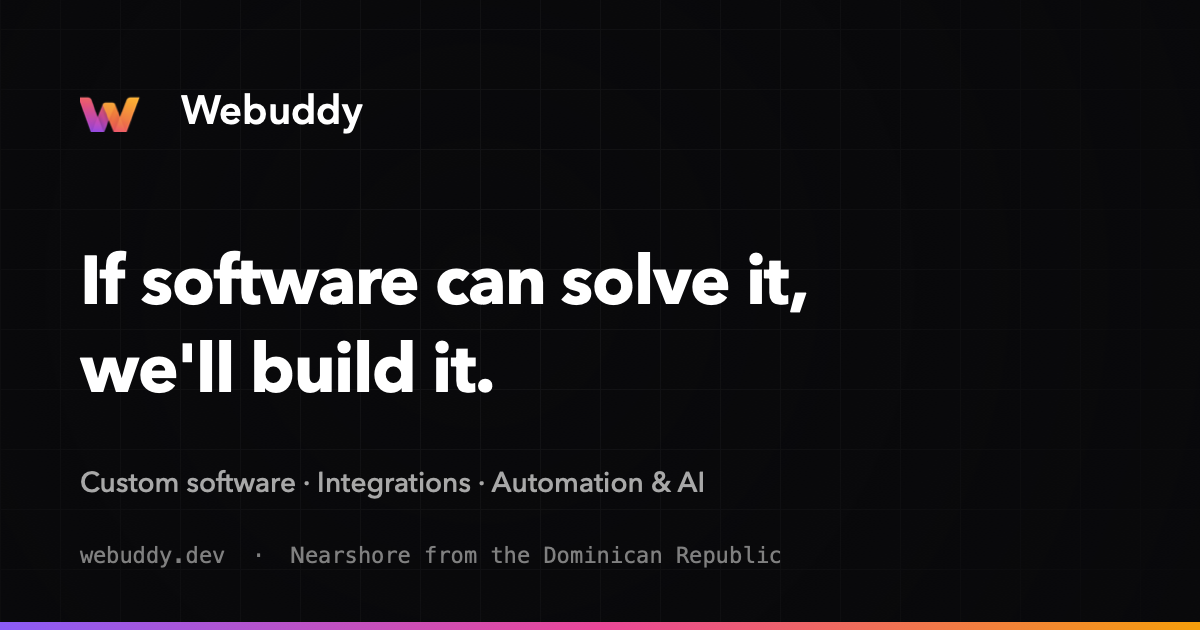
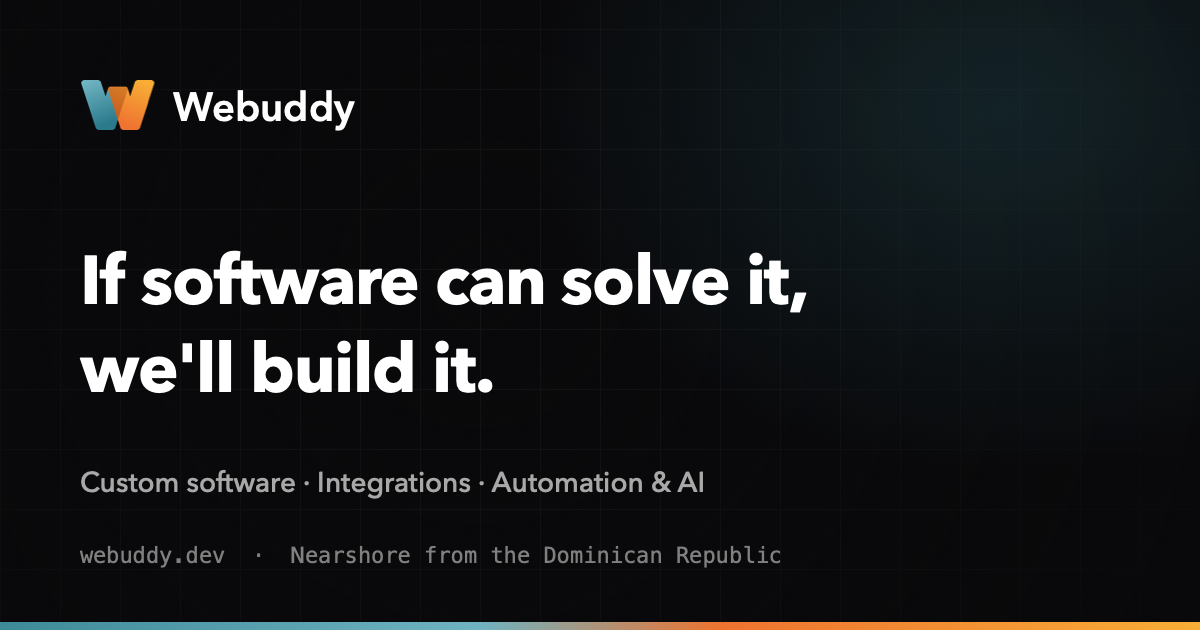
refactor: update webuddy branding

diff --git a/src/components/home/SystemDiagram.tsx b/src/components/home/SystemDiagram.tsx
@@ -42,13 +42,14 @@ export function SystemDiagram() {
     <svg viewBox="0 0 440 440" role="img" aria-label={t('home.diagram.label')} className="h-auto w-full">
       <defs>
         <linearGradient id="wb-core-stroke" x1="0" y1="0" x2="1" y2="0">
-          <stop offset="0" stopColor="#8b5cf6" />
-          <stop offset="0.5" stopColor="#ec4899" />
-          <stop offset="1" stopColor="#f59e0b" />
+          <stop offset="0" stopColor="#6FB3C1" />
+          <stop offset="0.45" stopColor="#3E8A99" />
+          <stop offset="0.55" stopColor="#EE7330" />
+          <stop offset="1" stopColor="#F8AE36" />
         </linearGradient>
         <radialGradient id="wb-core-glow">
-          <stop offset="0" stopColor="#ec4899" stopOpacity="0.22" />
-          <stop offset="1" stopColor="#ec4899" stopOpacity="0" />
+          <stop offset="0" stopColor="#3E8A99" stopOpacity="0.26" />
+          <stop offset="1" stopColor="#3E8A99" stopOpacity="0" />
         </radialGradient>
       </defs>
 
@@ -70,7 +71,8 @@ export function SystemDiagram() {
 
       <ellipse cx={220} cy={200} rx={190} ry={90} fill="url(#wb-core-glow)" />
       <rect x={CORE.x} y={CORE.y} width={CORE.w} height={CORE.h} rx={16} fill="#111114" stroke="url(#wb-core-stroke)" strokeWidth={1.5} />
-      <text x={220} y={197} textAnchor="middle" className="font-display" fontSize={24} fontWeight={600} fill="#ffffff">
+      <image href="/images/webuddy-icono-color-fondo-oscuro.svg" x={150} y={176} width={36} height={24} />
+      <text x={194} y={197} className="font-display" fontSize={24} fontWeight={600} fill="#ffffff">
         {t('home.diagram.core')}
       </text>
       <text x={220} y={224} textAnchor="middle" className="font-mono" fontSize={11} fill="#a1a1aa">
@@ -85,7 +87,7 @@ export function SystemDiagram() {
       ))}
 
       {centers.map((cx, i) => (
-        <FlowDot key={`fi-${cx}`} path={inPath(cx)} begin={i * 0.75} color="#a78bfa" />
+        <FlowDot key={`fi-${cx}`} path={inPath(cx)} begin={i * 0.75} color="#6FB3C1" />
       ))}
       {centers.map((cx, i) => (
         <FlowDot key={`fo-${cx}`} path={outPath(cx)} begin={1.5 + i * 0.75} color="#fb923c" />

diff --git a/src/components/sections/SolutionsIndex.tsx b/src/components/sections/SolutionsIndex.tsx
@@ -12,7 +12,7 @@ function FeaturedRow({ solution, label }: { solution: Solution; label: string })
         to={`/solutions/${solution.slug}`}
         className="group relative flex flex-col gap-6 overflow-hidden rounded-2xl border border-white/[0.1] bg-ink-900 p-7 transition-colors hover:border-white/20 md:flex-row md:items-center md:justify-between md:p-8"
       >
-        <span className="absolute inset-y-0 left-0 w-[2px] bg-gradient-to-b from-brand-violet via-brand-pink to-brand-orange" aria-hidden="true" />
+        <span className="absolute inset-y-0 left-0 w-[2px] bg-gradient-to-b from-brand-teal-glow via-brand-teal-light to-brand-orange" aria-hidden="true" />
         <div className="flex gap-5">
           <span className="flex h-11 w-11 shrink-0 items-center justify-center rounded-xl border border-white/10 bg-white/[0.03]">
             <solution.icon size={20} className="text-brand-accent" />

diff --git a/tailwind.config.js b/tailwind.config.js
@@ -12,10 +12,13 @@ export default {
           800: '#19191e',
           700: '#24242b',
         },
+        // Taken from the logo (public/images). On the dark UI, use the "fondo oscuro" teal.
         brand: {
-          violet: '#8b5cf6',
-          pink: '#ec4899',
-          orange: '#f59e0b',
+          teal: '#0F4C5C',
+          'teal-light': '#3E8A99',
+          'teal-glow': '#6FB3C1',
+          orange: '#EE7330',
+          amber: '#F8AE36',
           accent: '#fb923c',
         },
       },
@@ -25,7 +28,7 @@ export default {
         mono: ['"JetBrains Mono"', 'ui-monospace', 'SFMono-Regular', 'Menlo', 'monospace'],
       },
       backgroundImage: {
-        'brand-gradient': 'linear-gradient(90deg, #8b5cf6, #ec4899 50%, #f59e0b)',
+        'brand-gradient': 'linear-gradient(90deg, #3E8A99, #6FB3C1 40%, #EE7330 60%, #F8AE36)',
       },
       keyframes: {
         'fade-up': {

diff --git a/index.html b/index.html
@@ -5,8 +5,10 @@
   <meta charset="UTF-8" />
   <meta name="viewport" content="width=device-width, initial-scale=1.0" />
   <meta name="theme-color" content="#09090b" />
-  <link rel="icon" type="image/png" sizes="32x32" href="/W.png" />
-  <link rel="apple-touch-icon" href="/W.png" />
+  <link rel="icon" type="image/svg+xml" href="/images/webuddy-icono-pequeno.svg" media="(prefers-color-scheme: light)" />
+  <link rel="icon" type="image/svg+xml" href="/images/webuddy-icono-pequeno-fondo-oscuro.svg" media="(prefers-color-scheme: dark)" />
+  <link rel="icon" type="image/png" href="/images/webuddy-icono-pequeno-fondo-oscuro-32.png" />
+  <link rel="apple-touch-icon" href="/images/webuddy-apple-touch-icon.png" />
   <link rel="preconnect" href="https://fonts.googleapis.com" />
   <link rel="preconnect" href="https://fonts.gstatic.com" crossorigin />
   <link rel="stylesheet"

diff --git a/src/pages/Solutions.tsx b/src/pages/Solutions.tsx
@@ -25,7 +25,7 @@ export const Solutions = () => {
       {entry && (
         <section className="wrap">
           <Reveal className="relative overflow-hidden rounded-2xl border border-white/[0.1] bg-ink-900 p-7 md:p-10">
-            <span className="absolute inset-y-0 left-0 w-[2px] bg-gradient-to-b from-brand-violet via-brand-pink to-brand-orange" aria-hidden="true" />
+            <span className="absolute inset-y-0 left-0 w-[2px] bg-gradient-to-b from-brand-teal-glow via-brand-teal-light to-brand-orange" aria-hidden="true" />
             <div className="grid gap-8 md:grid-cols-[1fr_auto] md:items-center">
               <div>
                 <p className="eyebrow text-brand-accent">{t('solutionsPage.entryTitle')}</p>

diff --git a/src/components/Logo.tsx b/src/components/Logo.tsx
@@ -1,10 +1,10 @@
 import { cn } from '../utils/cn';
 
+// The site is dark, so it uses the "fondo oscuro" version of the mark.
 export function Logo({ className }: { className?: string }) {
   return (
     <span className={cn('flex items-center gap-2.5', className)}>
-      <img src="/W.png" alt="" width={60} />
-      {/* <span className="font-display text-lg font-semibold tracking-tight text-white">Webuddy</span> */}
+      <img src="/images/webuddy-icono-color-fondo-oscuro.svg" alt="" width={48} height={32} className="h-8 w-auto" />
     </span>
   );
 }

diff --git a/src/pages/InsightArticle.tsx b/src/pages/InsightArticle.tsx
@@ -115,7 +115,7 @@ export const InsightArticle = () => {
     inLanguage: lang,
     url: `${SITE.url}${localizePath(`/insights/${insight.slug}`, lang)}`,
     author: { '@type': 'Organization', name: SITE.name, url: SITE.url },
-    publisher: { '@type': 'Organization', name: SITE.name, logo: { '@type': 'ImageObject', url: `${SITE.url}/W.png` } },
+    publisher: { '@type': 'Organization', name: SITE.name, logo: { '@type': 'ImageObject', url: `${SITE.url}/images/webuddy-icono-color-512.png` } },
   };
 
   return (

diff --git a/src/seo/head.ts b/src/seo/head.ts
@@ -148,7 +148,7 @@ export const organizationJsonLd = {
   '@type': 'Organization',
   name: SITE.name,
   url: SITE.url,
-  logo: `${SITE.url}/W.png`,
+  logo: `${SITE.url}/images/webuddy-icono-color-512.png`,
   email: SITE.email,
   telephone: '+1-849-918-2057',
   address: {
